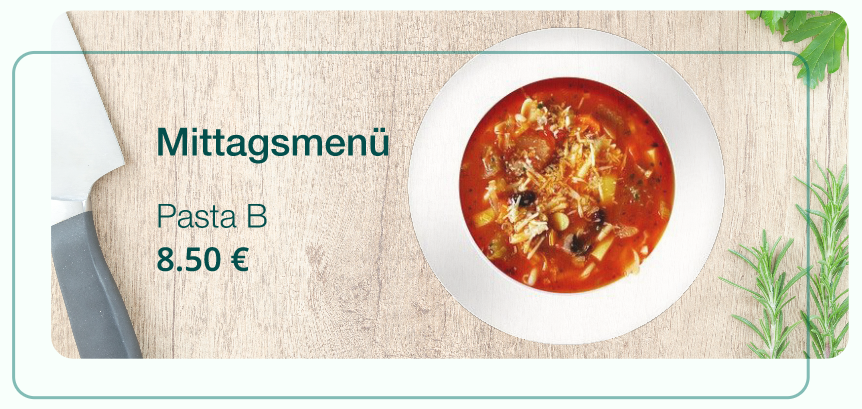
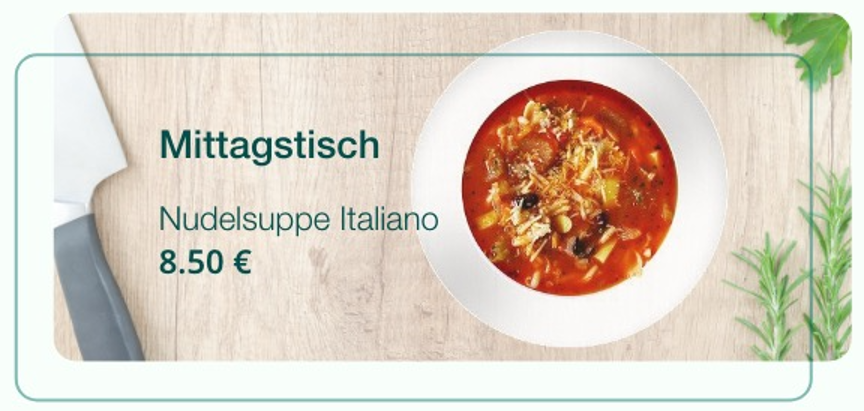
Startseite + Mittagtisch

diff --git a/stylesheet.css b/stylesheet.css
@@ -87,6 +87,7 @@ div#ordered {
     border-bottom-left-radius: 20px;
     border-bottom-right-radius: 20px;
 }
+
 #contentBasket .singleOrder,
 #ordered .singleOrder {
     display: flex;
@@ -98,6 +99,7 @@ div#ordered {
     padding: 0 10px !important;
     border-radius: 20px;
 }
+
 #contentBasket button.removeOrder {
     border: none;
     background: none;
@@ -256,12 +258,15 @@ button.filter-button {
     box-shadow: 0px 0px 10px #a5a5a5;
 }
 
+
 /*Kategorie Buttons*/
+
 .kategorie-buttons-div {
     position: absolute;
     left: 0;
     margin-top: 30px;
 }
+
 div.kategorie-buttons-div img {
     background: #017168;
     box-shadow: 0px 0px 10px #656565;
@@ -274,6 +279,7 @@ div.kategorie-buttons-div img {
     cursor: pointer;
     padding: 5px 30px;
 }
+
 .kategorie-button img {
     width: 45px;
     height: 45px;
@@ -338,6 +344,7 @@ p.accordion_headline {
     min-width: 240px;
     margin-right: 230px;
 }
+
 p.price-menu {
     text-align: right !important;
     width: 80px;
@@ -588,4 +595,21 @@ button#jetztBezahlenButton {
 div#orders {
     overflow: scroll;
     height: 430px;
+}
+
+
+/*Page Startseite*/
+
+div#main.page-startseite {
+    background-image: url(Bildmaterial/Background/Startseite_Orderist.jpeg);
+    background-size: contain;
+    height: 100%;
+}
+
+.navbar.page-startseite {
+    width: 160px;
+    height: 200px;
+    position: absolute;
+    top: 340px;
+    left: 530px;
 }

diff --git a/start_page.html b/start_page.html
@@ -13,13 +13,14 @@
 
     <div class="tablet">
         <div class="content_tablet">
-            <div class="navbar startseite">
-                <p>Tisch 3</p>
-            </div>
+            <a href="welcome.html">
+                <div class="navbar page-startseite">
+                </div>
+            </a>
 
 
 
-            <div id="main">
+            <div id="main" class="page-startseite">
 
 
 
